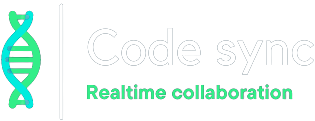
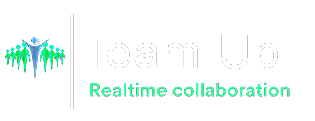
updated

diff --git a/src/pages/Home.js b/src/pages/Home.js
@@ -35,8 +35,8 @@ const Home = () => {
         }
     };
     return (
-        <div className="homePageWrapper">
-            <div className="formWrapper">
+        <div className="homePageWrapper" style={{backgroundColor:"black"}}>
+            <div className="formWrapper" style={{backgroundColor:"rgba(66, 66, 66, 0.801)"}}>
                 <img
                     className="homePageLogo"
                     src="/code-sync.png"
@@ -61,7 +61,7 @@ const Home = () => {
                         onKeyUp={handleInputEnter}
                     />
                     <button className="btn joinBtn" onClick={joinRoom}>
-                        Join
+                       <span style={{color:"whitesmoke"}}>JOIN</span>
                     </button>
                     <span className="createInfo">
                         If you don't have an invite then create &nbsp;
@@ -70,15 +70,15 @@ const Home = () => {
                             href=""
                             className="createNewBtn"
                         >
-                            new room
+                            New Room
                         </a>
                     </span>
                 </div>
             </div>
             <footer>
                 <h4>
-                    Built with 💛 &nbsp; by &nbsp;
-                    <a href="https://github.com/codersgyan">Coder's Gyan</a>
+                    Copyright &copy;
+                    <a href="https://github.com/shashank8987"> Shashank Shekhar</a>
                 </h4>
             </footer>
         </div>

diff --git a/src/App.css b/src/App.css
@@ -7,7 +7,7 @@
 }
 
 .formWrapper {
-  background: #282a36;
+  background: #000000;
   padding: 20px;
   border-radius: 10px;
   width: 400px;
@@ -20,7 +20,7 @@ footer {
 }
 
 footer a {
-  color: #4aee88;
+  color: #d1d1d1e2;
 }
 
 .inputGroup {
@@ -61,14 +61,14 @@ footer a {
 
 .joinBtn,
 .leaveBtn {
-  background: #4aed88;
-  width: 100px;
-  margin-left: auto;
+  background: #0a0a0af9;
+  width: 100%;
+  margin-left: 0;
 }
 
 .joinBtn:hover,
 .leaveBtn:hover {
-  background: #2b824c;
+  background: #000000;
 }
 
 .createInfo {
@@ -77,25 +77,26 @@ footer a {
 }
 
 .createNewBtn {
-  color: #4aed88;
+  color: #d1d1d1e2;
   text-decoration: none;
-  border-bottom: 1px solid #4aed88;
+  border-bottom: 1px solid #d1d1d1e2;
   transition: all 0.3s ease-in-out;
 }
 
 .createNewBtn:hover,
 footer a:hover {
-  color: #368654;
-  border-color: #368654;
+  color: #bbbbbbc9;
+  border-color: #bbbbbbc9;
 }
 
 .mainWrap {
   display: grid;
   grid-template-columns: 230px 1fr;
+  background-color: #000000;
 }
 
 .aside {
-  background: #1c1e29;
+  background: #303030e1;
   padding: 16px;
   color: #fff;
   display: flex;
@@ -140,4 +141,5 @@ footer a:hover {
   font-size: 20px;
   line-height: 1.6;
   padding-top: 20px;
+  color: rgba(66, 66, 66, 0.801);
 }

diff --git a/src/pages/EditorPage.js b/src/pages/EditorPage.js
@@ -92,7 +92,7 @@ const EditorPage = () => {
     }
 
     return (
-        <div className="mainWrap">
+        <div className="mainWrap" style={{backgroundColor:"black"}}>
             <div className="aside">
                 <div className="asideInner">
                     <div className="logo">
@@ -112,14 +112,14 @@ const EditorPage = () => {
                         ))}
                     </div>
                 </div>
-                <button className="btn copyBtn" onClick={copyRoomId}>
-                    Copy ROOM ID
+                <button className="btn copyBtn" onClick={copyRoomId} style={{backgroundColor:"#0a0a0af9"}}>
+                    <span style={{color:"white"}}>Copy ROOM ID</span>
                 </button>
                 <button className="btn leaveBtn" onClick={leaveRoom}>
-                    Leave
+                    <span style={{color:"white"}}>Leave</span>
                 </button>
             </div>
-            <div className="editorWrap">
+            <div className="editorWrap" style={{backgroundColor:"black"}}>
                 <Editor
                     socketRef={socketRef}
                     roomId={roomId}

diff --git a/public/index.html b/public/index.html
@@ -2,14 +2,14 @@
 <html lang="en">
   <head>
     <meta charset="utf-8" />
-    <link rel="icon" href="%PUBLIC_URL%/favicon.ico" />
+    <link rel="icon" href="%PUBLIC_URL%/fav.png" />
     <meta name="viewport" content="width=device-width, initial-scale=1" />
     <meta name="theme-color" content="#000000" />
     <meta
       name="description"
       content="Web site created using create-react-app"
     />
-    <link rel="apple-touch-icon" href="%PUBLIC_URL%/logo192.png" />
+    <link rel="apple-touch-icon" href="%PUBLIC_URL%/fav.png" />
     <!--
       manifest.json provides metadata used when your web app is installed on a
       user's mobile device or desktop. See https://developers.google.com/web/fundamentals/web-app-manifest/
@@ -24,7 +24,7 @@
       work correctly both with client-side routing and a non-root public URL.
       Learn how to configure a non-root public URL by running `npm run build`.
     -->
-    <title>React App</title>
+    <title>Team Up</title>
   </head>
   <body>
     <noscript>You need to enable JavaScript to run this app.</noscript>

diff --git a/src/components/Editor.js b/src/components/Editor.js
@@ -1,7 +1,7 @@
 import React, { useEffect, useRef } from 'react';
 import Codemirror from 'codemirror';
 import 'codemirror/lib/codemirror.css';
-import 'codemirror/theme/dracula.css';
+import 'codemirror/theme/tomorrow-night-bright.css';
 import 'codemirror/mode/javascript/javascript';
 import 'codemirror/addon/edit/closetag';
 import 'codemirror/addon/edit/closebrackets';
@@ -15,7 +15,7 @@ const Editor = ({ socketRef, roomId, onCodeChange }) => {
                 document.getElementById('realtimeEditor'),
                 {
                     mode: { name: 'javascript', json: true },
-                    theme: 'dracula',
+                    theme: 'tomorrow-night-bright',
                     autoCloseTags: true,
                     autoCloseBrackets: true,
                     lineNumbers: true,
